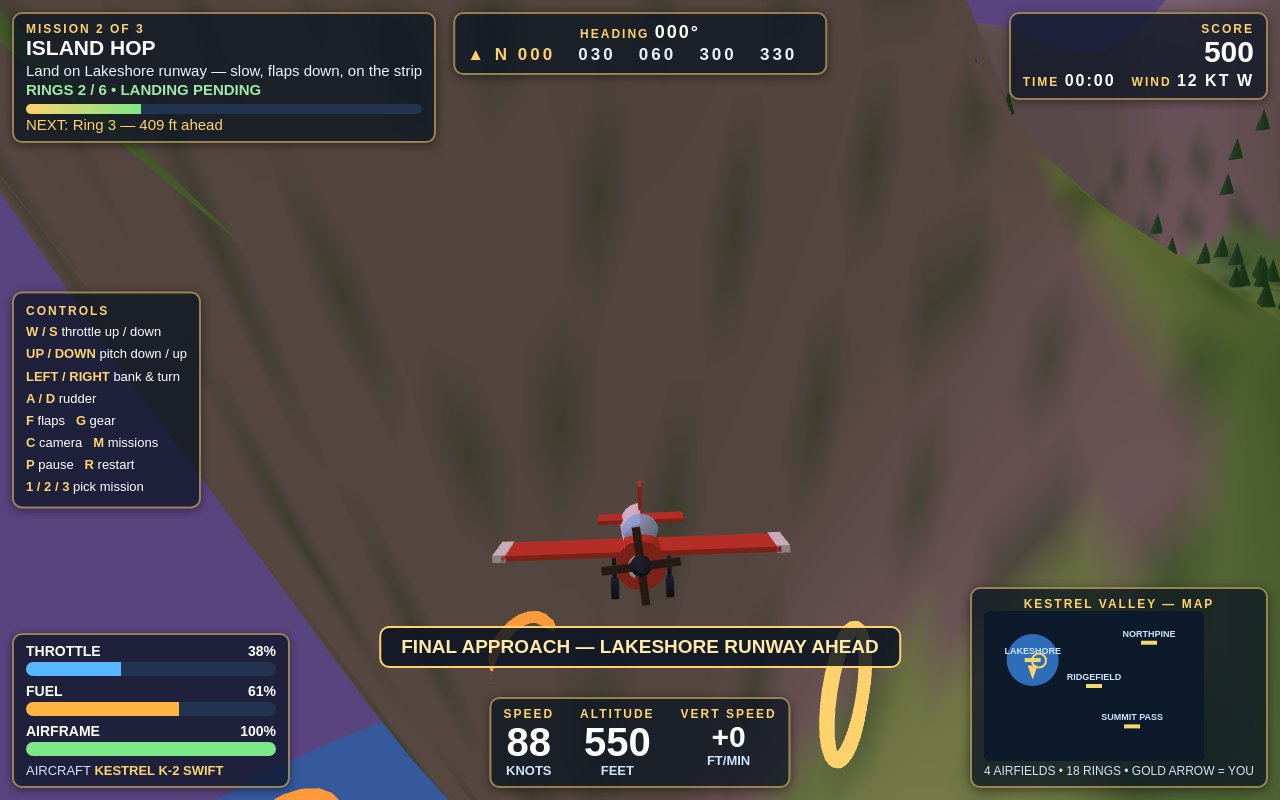
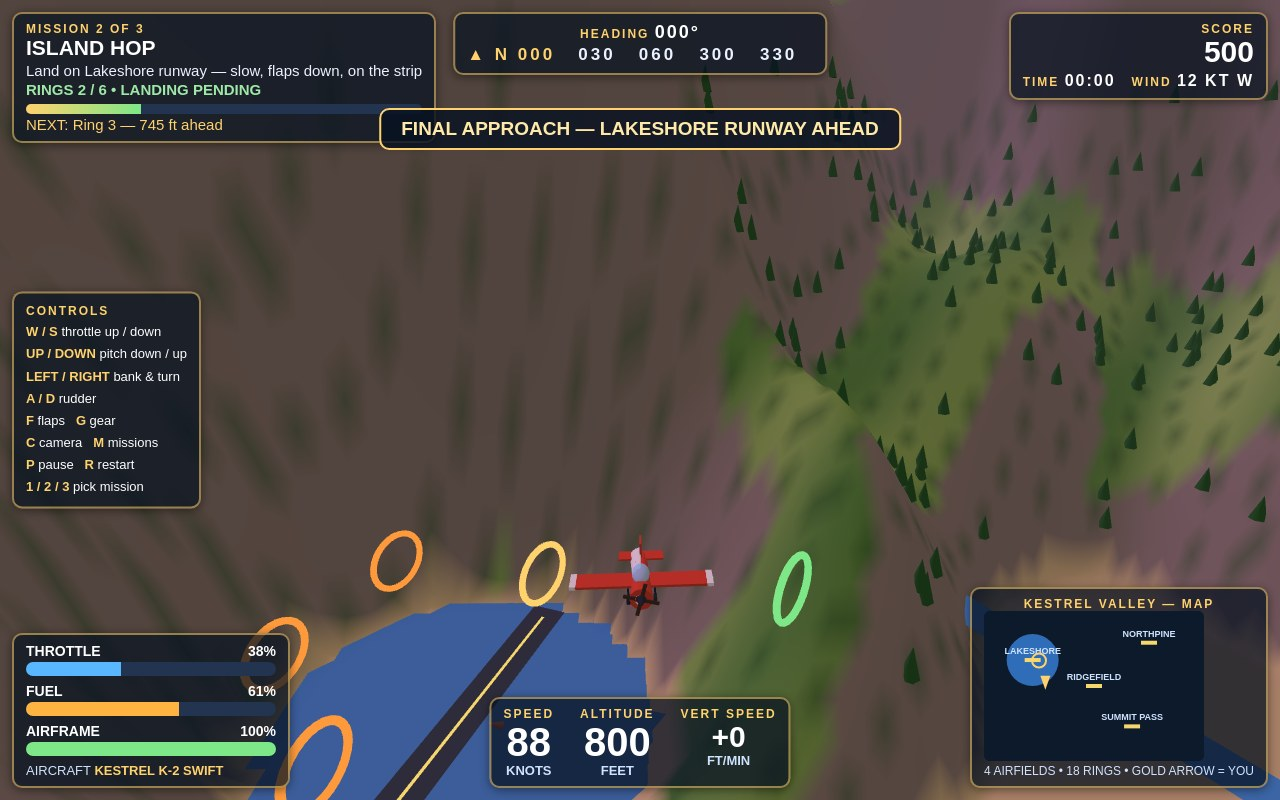
Polish: dusk approach now shows the Lakeshore runway + lake, cover ring in frame, log HUD uncluttered
- terrain.js: airfield pads are actually flat now (plateau to the strip ends);
  the old blend buried the Lakeshore strip and lake under the terrain, so no
  camera angle could ever show them. Lake surface raised to sit on the pad.
- shot-presets.js: dusk repositioned (offset-east approach, toast to the top);
  cover eased right so the green ring clears the frame edge; title shows the
  same sortie state (score 500, rings 2) as the other shots.
- hud.js: log screen hides the HUD panels its card would cut mid-line.

diff --git a/game/src/shot-presets.js b/game/src/shot-presets.js
@@ -9,21 +9,33 @@ function applyShotPreset(game, name) {
     // Golden-hour Ring Run, mid-course: rings ahead, runway behind, full HUD.
     g.startMission(1, 'golden');
     g.state.x = -120; g.state.z = -260; g.state.y = 620;
-    g.state.heading = 0; g.state.pitch = 0.03; g.state.roll = 0;
+    g.state.heading = 0.16; g.state.pitch = 0.03; g.state.roll = 0;
     g.state.speedKnots = 132; g.state.throttle = 0.72; g.state.fuel = 78;
     g.run.ringsHit = 2; g.run.score = 500;
     g.run.ringMeshes[0].material.color.set(0x7ee787);
     g.run.ringMeshes[1].material.color.set(0x7ee787);
     g.run.ringMeshes[2].material.color.set(0xffd26e);
-    g.cam.back = 62; g.cam.up = 18; g.paused = true; // frozen: ring 3 stays in frame
+    // Eased right + pulled back a touch: the second green ring used to be cut
+    // at the right frame edge, and a pine crowded the lower frame.
+    g.cam.back = 70; g.cam.up = 20; g.paused = true; // frozen: ring 3 stays in frame
     snapChaseCamera(g.cam, g.state);
     showScreen(null);
     return 'cover';
   }
   if (name === 'dusk') {
     // Dusk Island Hop: low over the lake on final to Lakeshore, gear down, flaps on.
+    // Two things the old preset got wrong, both measured, not guessed:
+    // (1) the camera sat inside the south-shore hillside, so the frame was one
+    // brown ridge face and the strip never entered it; (2) the strip and the
+    // lake were buried under the terrain mesh entirely (raycast: terrain 47 ft
+    // over the strip centre, 388+ ft over the lake) — no angle could show them.
+    // terrain.js now gives Lakeshore a real flat pad and the lake a real surface
+    // (see there). The plane flies the approach offset east of the runway axis,
+    // so the strip reads diagonally down-left through the gap between the gauges
+    // and flight panels instead of hiding behind them, and the toast moves to the
+    // top of the frame so the next ring is never behind it.
     g.startMission(2, 'dusk');
-    g.state.x = -1450; g.state.z = -500; g.state.y = 550;
+    g.state.x = -1150; g.state.z = -150; g.state.y = 800;
     g.state.heading = 0; g.state.pitch = 0.02; g.state.roll = -0.03;
     g.state.speedKnots = 88; g.state.throttle = 0.38; g.state.fuel = 61;
     g.state.flaps = true; g.state.gearDown = true;
@@ -32,10 +44,14 @@ function applyShotPreset(game, name) {
     g.run.ringMeshes[0].material.color.set(0x7ee787);
     g.run.ringMeshes[1].material.color.set(0x7ee787);
     g.run.ringMeshes[2].material.color.set(0xffd26e);
-    g.cam.back = 85; g.cam.up = 26; // pulled back: valley + runway read around the plane
+    g.cam.back = 150; g.cam.up = 100; // close enough that the plane still reads
     snapChaseCamera(g.cam, g.state);
     showScreen(null);
     showToast('FINAL APPROACH — LAKESHORE RUNWAY AHEAD', 60000);
+    // Toast to the top (below the compass): at the bottom it sat exactly where
+    // the next ring and the runway project. Dusk shot only — a fresh page load.
+    const toast = document.getElementById('toast');
+    toast.style.bottom = 'auto'; toast.style.top = '108px';
     return 'dusk';
   }
   if (name === 'proof') {
@@ -50,9 +66,15 @@ function applyShotPreset(game, name) {
     return 'proof';
   }
   // title (default): the title screen over a slow orbit of the valley.
+  // Same sortie state as the other three shots (score 500, rings 2) so the
+  // HUD behind the title card matches the cover/dusk/proof frames.
   g.startMission(1, 'golden');
   g.state.x = 0; g.state.z = 600; g.state.y = 420;
   g.state.heading = 0; g.state.speedKnots = 60; g.state.throttle = 0.4;
+  g.run.ringsHit = 2; g.run.score = 500;
+  g.run.ringMeshes[0].material.color.set(0x7ee787);
+  g.run.ringMeshes[1].material.color.set(0x7ee787);
+  g.run.ringMeshes[2].material.color.set(0xffd26e);
   g.cam.mode = 'orbit';
   g.paused = true;
   showScreen('title-screen');

diff --git a/game/src/terrain.js b/game/src/terrain.js
@@ -25,8 +25,14 @@ function ridgeHeight(x, z) {
   h += Math.max(0, 1 - dist / 2400) * -160;                   // central valley floor
   for (const f of VALLEY.airfields) {
     const d = Math.hypot(x - f.x, z - f.z);
-    const flat = Math.max(0, 1 - d / 420);
-    h = h * (1 - flat) + 26 * flat;                           // flat pad at 26 ft
+    // A real pad: flat at 26 ft out to the end of the strip (310 ft + margin),
+    // then eased back to the raw terrain by 700 ft. The old linear blend over
+    // 420 ft never actually flattened anything — the raw mountain leaked through
+    // (46 ft at the strip centre, hundreds of feet at its ends) and buried the
+    // runway strip and the lake disc under the terrain, so neither could ever
+    // be seen from the air. The pad is what the strip (28.5 ft) is built on.
+    const flat = d <= 340 ? 1 : Math.max(0, 1 - (d - 340) / 360);
+    h = h * (1 - flat) + 26 * flat;
   }
   return Math.max(-40, h);
 }
@@ -59,12 +65,15 @@ function buildTerrain(scene, skyMode) {
   const ground = new THREE.Mesh(geo, new THREE.MeshLambertMaterial({ vertexColors: true }));
   group.add(ground);
 
-  // Lake: a still blue disc in the west valley.
+  // Lake: a still blue disc in the west valley. It sits 1 ft above the 26-ft
+  // airfield pad, so the water reads around the runway causeway instead of
+  // lying buried under the terrain (the old y=4 put the whole disc below the
+  // pad). The shoreline is wherever the rising valley sides cross the water.
   const lake = new THREE.Mesh(
     new THREE.CircleGeometry(620, 40),
     new THREE.MeshLambertMaterial({ color: 0x3f7fb8, transparent: true, opacity: 0.92 }));
   lake.rotation.x = -Math.PI / 2;
-  lake.position.set(-1450, 4, -900);
+  lake.position.set(-1450, 27, -900);
   group.add(lake);
 
   // River ribbon from the north ridge to the lake.

diff --git a/game/src/hud.js b/game/src/hud.js
@@ -117,4 +117,13 @@ function showToast(text, ms) {
 function showScreen(id) {
   for (const s of ['title-screen', 'log-screen', 'end-screen']) hudEl(s).style.display = 'none';
   if (id) hudEl(id).style.display = 'flex';
+  // The log card spans most of the frame and would cut the HUD panels at the
+  // left and right edges mid-line (the mission NEXT line, the map label, the
+  // gauge percentages, the help lines). Hide those panels while the log is
+  // open; they come back when it closes. Panels the card never touches
+  // (compass, score, flight) stay visible behind the modal.
+  const logOpen = id === 'log-screen';
+  for (const p of ['hud-mission', 'hud-map', 'hud-gauges', 'help']) {
+    hudEl(p).style.display = logOpen ? 'none' : '';
+  }
 }
